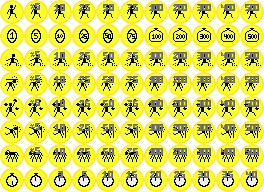
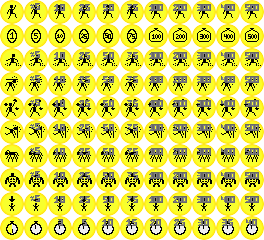
Add achievements for 1up/1down

diff --git a/src/achievements.js b/src/achievements.js
@@ -22,7 +22,9 @@ const ACHIEV_OUCH     = 3;
 const ACHIEV_SKY      = 4;
 const ACHIEV_WALLHIT  = 5;
 const ACHIEV_SPIKES   = 6;
-const ACHIEV_PLAYTIME = 7;
+const ACHIEV_ONE_UP   = 7;
+const ACHIEV_ONE_DOWN = 8;
+const ACHIEV_PLAYTIME = 9;
 
 const AchievementSteps = [1, 5, 10, 25, 50, 75, 100, 200, 300, 400, 500];
 

diff --git a/src/main.js b/src/main.js
@@ -411,6 +411,7 @@ function gameLogic() {
 			
 			player.invul = INVUL_CYCLES;
 			viewport.setScale(viewport.getScale() - 4);
+			Achievements.add(ACHIEV_ONE_DOWN);
 			Sfx.play(oneDownSfx);
 		}
 	} else {

diff --git a/src/items.js b/src/items.js
@@ -44,6 +44,7 @@ function Items(map) {
 		} else {
 			player.health += 1;
 			viewport.setScale(viewport.getScale() + 4);
+			Achievements.add(ACHIEV_ONE_UP);
 			Sfx.play(oneUpSfx);
 		}
 	}
